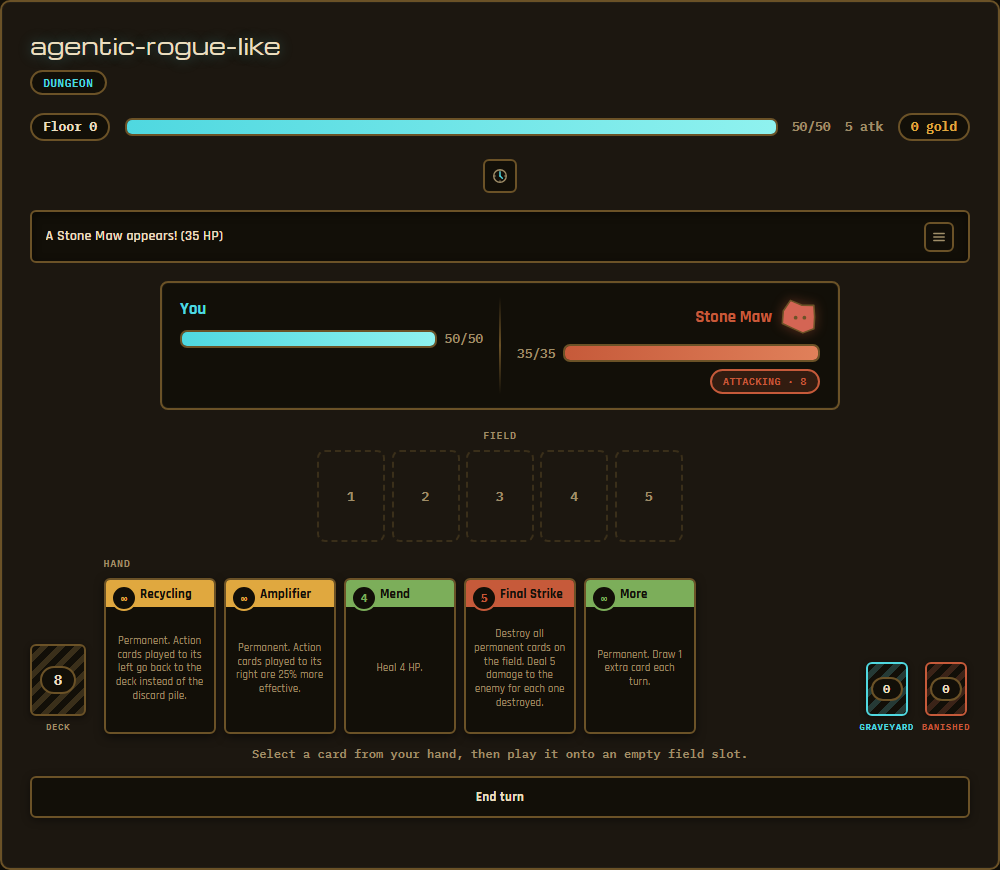
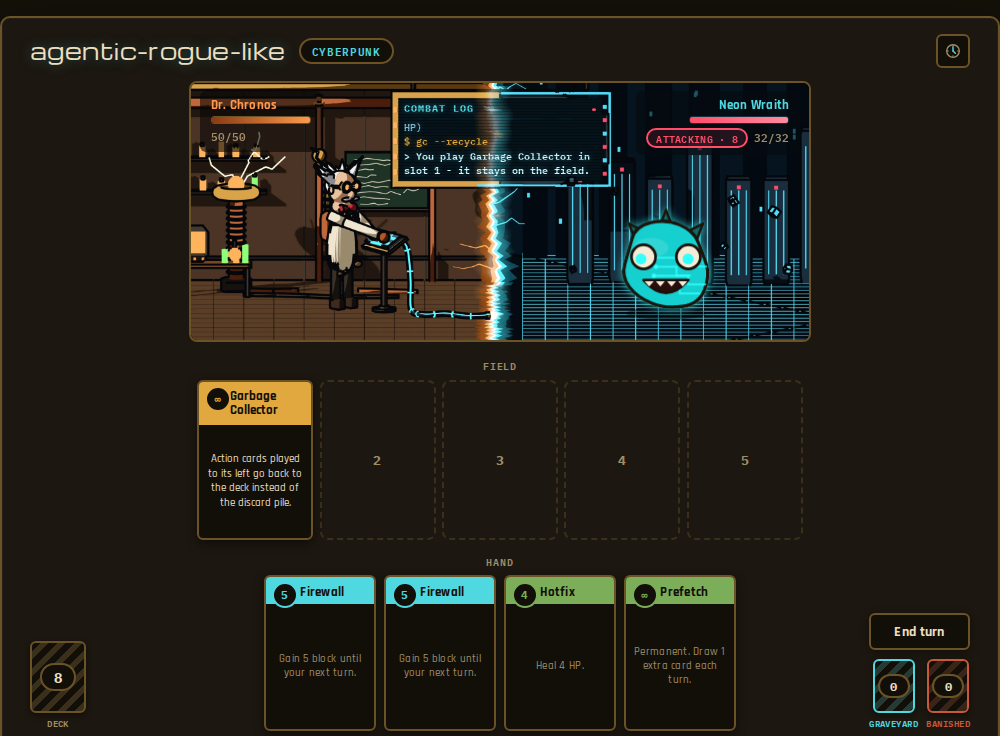
docs: READMEs, Projekttexte und Screenshots auf aktuellen Stand
Claude-Session: https://claude.ai/code/session_01HwjvQpGsuNw91MJ9wB9XQL

diff --git a/README.md b/README.md
@@ -18,9 +18,9 @@ strikt getrennt, damit die Grenze zwischen "was die KI entscheiden darf" und
 
 ## Screenshots
 
-| Start | Karte | Kampf |
+| Intro | Karte | Kampf |
 | --- | --- | --- |
-| ![Einstellung wählen](docs/screenshots/start.png) | ![Dungeon-Karte](docs/screenshots/map.png) | ![Kartenbasierter Kampf](docs/screenshots/combat.png) |
+| ![Story-Intro mit Dr. Chronos und der Nachricht der AGI](docs/screenshots/intro.png) | ![Dungeon-Karte](docs/screenshots/map.png) | ![Kampf in der Arena gegen einen prozedural gezeichneten Gegner](docs/screenshots/combat.png) |
 
 ## Status
 
@@ -35,11 +35,17 @@ strikt getrennt, damit die Grenze zwischen "was die KI entscheiden darf" und
       als klickbare Dungeon-Map statt im Terminal. Ergänzt die CLI, ersetzt
       sie nicht — `cli.py` funktioniert unverändert weiter. Deployment nach
       Azure (Container Apps + Static Web Apps) via GitHub Actions.
+- [x] **Arena und Story** — ein kurzes Story-Intro beim ersten Besuch
+      (überspringbar, auf dem Startbildschirm wiederholbar); gekämpft wird
+      in einer Arena aus einer Blender-Szene, in der Dr. Chronos seine
+      Angriffe an einer Tastatur einhackt. Weil die Gegner erst zur Laufzeit
+      entstehen, zeichnet `EnemyMonster.tsx` jeden als SVG aus Name (Seed),
+      Max-HP (Größe), Angriff (Stacheln, Zähne) und Setting (Farben, Motiv).
 - [x] **Kartenbasierter Kampf** — kein Energie-System; das Feld mit 5 Slots
-      ist die Ressource. Aktionskarten (Angriff/Block/Heilung, später mehr)
+      ist die Ressource. Aktionskarten (Exploit, Firewall, Hotfix, Kernel Panic)
       brauchen einen freien Slot, wirken sofort und wandern in den
-      Friedhof; permanente Karten (Verstärker, Rüstung, Recycling, Mehr)
-      belegen ihren Slot dauerhaft und wirken positionsabhängig — z. B.
+      Friedhof; permanente Karten (Overclock, Encryption, Garbage Collector,
+      Prefetch) belegen ihren Slot dauerhaft und wirken positionsabhängig — z. B.
       "Aktionskarten rechts von mir sind 25% effektiver". Nicht gespielte
       Handkarten bleiben für die nächste Runde erhalten statt zu verfallen.
       `cli.py` und die Tests spielen automatisiert (`auto_resolve_combat` —
@@ -64,8 +70,12 @@ strikt getrennt, damit die Grenze zwischen "was die KI entscheiden darf" und
       mit schema-beschränktem Decoding beide "sauberen" Trainingslösungen
       schlägt, und warum das bewusst nur lokal läuft, nicht im
       Azure-Deployment (Kostenrechnung dort).
-- [ ] **Narrator-Agent** — verpackt generierte/mechanische Ergebnisse in
-      Flavor-Text.
+- [x] **Narrator** — eine Zeile Flavor-Text für Event-, Rast- und
+      Shop-Räume (`agent/narrator.py`). Bewusst kein voller Agent: kein
+      Budget zu schützen, also kein Schema und kein Retry; die Zahlen hängt
+      immer die Spiellogik an. `prefetch.py` erzeugt Gegner und Flavor-Text
+      für erreichbare Räume schon im Hintergrund, solange man auf die Karte
+      schaut.
 - [ ] **Difficulty-Agent** — passt zukünftige Encounter-Budgets an den
       Run-Verlauf an.
 - [ ] **Politur** — Tests, die sicherstellen, dass agenten-generierter
@@ -80,16 +90,19 @@ src/agentic_rogue_like/
 ├── models.py       Pydantic-Datenmodelle (RunState, PlayerState, MapNode, Enemy, Card, ...)
 ├── map_gen.py      Prozedurale Etagen-/Node-Map
 ├── combat.py       Kartenbasierter Kampf: Deck/Hand/Feld, Zieh-/Ablagelogik
-├── cards.py        Platzhalter-Startdeck (Aktions- + permanente Karten)
+├── cards.py        Startdeck mit IT-Namen (Exploit, Firewall, Hotfix, ...; Aktions- + permanente Karten)
 ├── events.py       Event-/Rest-/Shop-Auflösung
 ├── enemies.py      Statischer Gegner-Pool (Fallback für den Encounter-Agent)
 ├── engine.py       Der deterministische Kern-Loop, den CLI und API beide treiben
-├── agent/          LangGraph-Encounter-Agent + sein Tool-Schema
+├── agent/          LangGraph-Encounter-Agent, Tool-Schema, Etagen-Budgets, Narrator, Ollama-Anbindung
+├── prefetch.py     Erzeugt LLM-Inhalte erreichbarer Räume im Hintergrund
+├── balance_sim.py  Bot-Simulation für das Balancing (uv run balance-sim)
 ├── cli.py          Terminal-Frontend (input()/print()-Loop)
 ├── api.py          FastAPI-HTTP-Frontend fürs Web-UI (uvicorn agentic_rogue_like.api:app)
 └── sessions.py      Hält Run-Zustand zwischen HTTP-Requests am Leben
 
-frontend/           React + Vite + TypeScript — Dungeon-Map, Kampf, Event-Prompts
+frontend/           React + Vite + TypeScript — Intro, Dungeon-Map, Kampf-Arena, Event-Prompts
+balance/            Beispiel-Varianten (JSON) für den Balancing-Simulator
 tests/              pytest-Suite (Engine, Kampf, API, Encounter-Agent/-Schema)
 training/           Eigenes uv-Projekt: Fine-Tuning-Pipeline für den Encounter-Agent
                     (Datengenerierung, Colab-Notebook, Eval-Harness, GGUF/Ollama-Serving,
@@ -180,5 +193,6 @@ Backend-Image (`Dockerfile`, `uv`) direkt in der Azure Container Registry,
 aktualisiert die Azure Container App darauf, baut danach das Frontend gegen
 die frisch deployte API-URL und published es nach Azure Static Web Apps.
 Login läuft über OIDC/Federated Credentials — kein Passwort oder
-Registry-Secret im Repo. Es gibt aktuell kein separates CI-Test-Gate vor dem
+Registry-Secret im Repo. Zwei Deploys laufen nie gleichzeitig
+(`concurrency`): ein neuer Push wartet, bis der laufende fertig ist. Es gibt aktuell kein separates CI-Test-Gate vor dem
 Deploy; `pytest` läuft nur manuell/lokal.

diff --git a/frontend/README.md b/frontend/README.md
@@ -1,32 +1,20 @@
-# React + TypeScript + Vite
+# Frontend
 
-This template provides a minimal setup to get React working in Vite with HMR and some Oxlint rules.
+React + Vite + TypeScript. Spielt einen Run im Browser über die FastAPI-Schicht
+(`src/agentic_rogue_like/api.py`); Start und Umgebungsvariablen stehen in der
+[Haupt-README](../README.md#web-api--frontend).
 
-Currently, two official plugins are available:
+- `components/IntroScreen.tsx` – Story-Intro beim ersten Besuch (in `localStorage` gemerkt, überspringbar)
+- `components/SettingPicker.tsx` – Wahl des Settings für den Encounter-Agenten
+- `components/DungeonMap.tsx` – klickbare Node-Map
+- `components/CombatPanel.tsx`, `CombatArena.tsx` – Kampf mit 5-Slot-Feld, Hand und Arena aus Blender-Ebenen (WebP)
+- `components/EnemyMonster.tsx` – zeichnet jeden generierten Gegner als SVG aus Name, HP, Angriff und Setting
+- `hackerCommands.ts` – die Befehle, die Dr. Chronos pro Karte ins Terminal tippt
+- `cardFlight.ts` – Flug einer Karte von der Hand aufs Feld
 
-- [@vitejs/plugin-react](https://github.com/vitejs/vite-plugin-react/blob/main/packages/plugin-react) uses [Oxc](https://oxc.rs)
-- [@vitejs/plugin-react-swc](https://github.com/vitejs/vite-plugin-react/blob/main/packages/plugin-react-swc) uses [SWC](https://swc.rs/)
-
-## React Compiler
-
-The React Compiler is not enabled on this template because of its impact on dev & build performances. To add it, see [this documentation](https://react.dev/learn/react-compiler/installation).
-
-## Expanding the Oxlint configuration
-
-If you are developing a production application, we recommend enabling type-aware lint rules by installing `oxlint-tsgolint` and editing `.oxlintrc.json`:
-
-```json
-{
-  "$schema": "./node_modules/oxlint/configuration_schema.json",
-  "plugins": ["react", "typescript", "oxc"],
-  "options": {
-    "typeAware": true
-  },
-  "rules": {
-    "react/rules-of-hooks": "error",
-    "react/only-export-components": ["warn", { "allowConstantExport": true }]
-  }
-}
+```bash
+npm install
+npm run dev     # http://localhost:5173, erwartet die API auf http://localhost:8000
+npm run build
+npm run lint
 ```
-
-See the [Oxlint rules documentation](https://oxc.rs/docs/guide/usage/linter/rules) for the full list of rules and categories.
